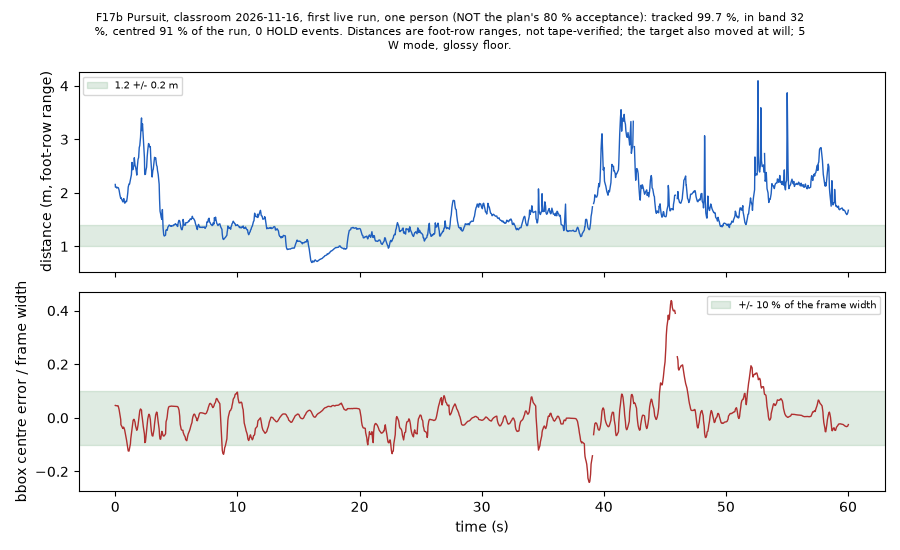
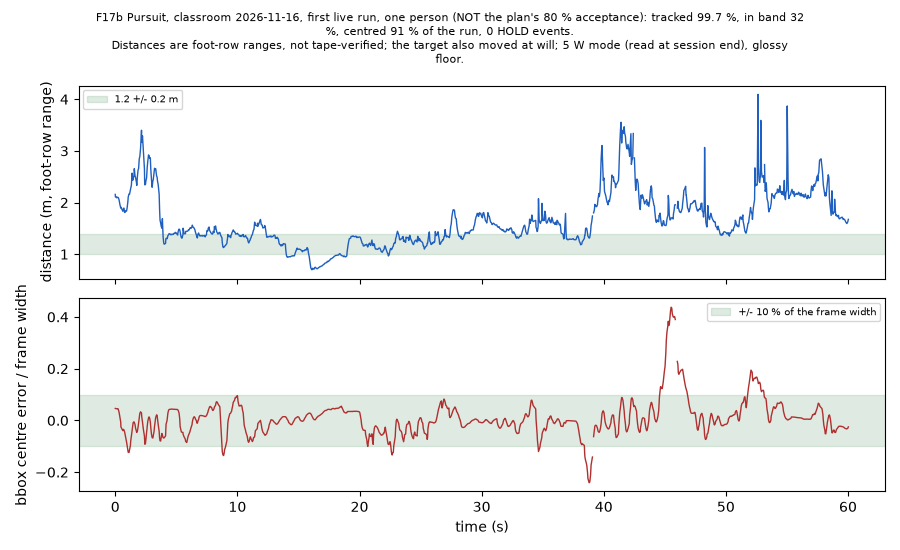
Week 7: audit fixes (power-mode wording, D2 caveat, packet count, title wrap, video-cut dates)

diff --git a/tools/plot_dqk_report_figures.py b/tools/plot_dqk_report_figures.py
@@ -427,7 +427,8 @@ def f17_1116():
     ax[1].set_ylabel("bbox centre error / frame width")
     ax[1].set_xlabel("time (s)")
     ax[1].legend(fontsize=7)
-    fig.suptitle(textwrap.fill("F17b Pursuit, classroom 2026-11-16, first live run, one person (NOT the plan's 80 %% acceptance): tracked %.1f %%, in band %.0f %%, centred %.0f %% of the run, %d HOLD events.\nDistances are foot-row ranges, not tape-verified; the target also moved at will; 5 W mode, glossy floor." % (100 * sm["coverage_tracked_fraction"], 100 * sm["time_fraction_distance_in_band_of_run"], 100 * sm["time_fraction_centred_of_run"], len(sm["hold_events"])), 125), fontsize=8)
+    title = ("F17b Pursuit, classroom 2026-11-16, first live run, one person (NOT the plan's 80 %% acceptance): tracked %.1f %%, in band %.0f %%, centred %.0f %% of the run, %d HOLD events.\nDistances are foot-row ranges, not tape-verified; the target also moved at will; 5 W mode (read at session end), glossy floor." % (100 * sm["coverage_tracked_fraction"], 100 * sm["time_fraction_distance_in_band_of_run"], 100 * sm["time_fraction_centred_of_run"], len(sm["hold_events"])))
+    fig.suptitle("\n".join(textwrap.fill(p, 125) for p in title.splitlines()), fontsize=8)
     fig.tight_layout()
     OUT7.mkdir(parents=True, exist_ok=True)
     fig.savefig(OUT7 / "F17b_pursuit_1116.png")

diff --git a/reports/DoanQuocKien/midterm-chapter-08.md b/reports/DoanQuocKien/midterm-chapter-08.md
@@ -9,10 +9,10 @@
 | Hạng mục | Ngưỡng (mục 4.3) | Hiện có | Kết luận |
 | :-- | :-- | :-- | :-- |
 | Xác minh khuôn mặt (D2) | TAR ≥ 95 % tại FAR ≤ 1 % | clip D2 cũ (khuôn mặt 22–53 px): TAR 0,40 tại FAR 0,066 (buffalo_s, ngưỡng 0,45). Ngày 14/11 tại cửa, camera ESP32 (bản opt4), ba người (DQK, HNHL, KR) đăng ký có hướng dẫn, đứng ở 1,8 / 2,4 / 3,0 m, nhìn thẳng và quay đi sang hai bên: **TAR gộp 0,937** (822/877 khung hình nhìn thẳng; DQK 0,930, HNHL 0,983, KR 0,896), **FAR 0 trên 1754 điểm** của người lạ (0 trên 5254 khi tính cả khung hình quay đi), điểm người lạ cao nhất 0,336, ngưỡng 0,45 | **một phần**: FAR đạt, TAR 93,7 % thấp hơn ngưỡng 95 %. Điểm của người đúng và của người lạ tách nhau: ngưỡng 0,40 cho TAR 0,990 tại FAR 0/5254 (0,35: 0,998; 0,30: 1,000 tại FAR 0,27 %). Chỉ ba người, một buổi, một camera, nên đây là ứng viên chứ chưa phải kiểm chứng; ngưỡng trong mã giữ 0,45 và quyết định thuộc về HNHL. Lỗi không do kích thước mặt, góc quay đầu, khoảng cách hay phần đầu clip (chưa rõ nguyên nhân; nghi ngờ ảnh đăng ký từ webcam, chưa kiểm tra) |
-| Triển khai camera cửa (T2) | tới vị trí đỗ trước cửa (1,5–3,0 m), bắt tay xác minh, lùi về STANDBY, không va chạm; 5 lần tính điểm | 7 lần tính điểm (4 lần ngày 30/10, 2 lần ngày 14/11, 1 lần ngày 16/11). Ngày 14/11 cả hai lần đạt mọi tiêu chí: bắt tay 109/109 và 163/163 khung hình trong tầm nhìn, STANDBY sau 18 s và 26,6 s, khoảng cách tới cửa 2,94 m (thước), tầm nhìn thông, tường cách 0,30 và 0,45 m, 0 va chạm. Hai lần dừng cách bảng 1,55 và 1,61 m (đích 1,33 m), lệch nhau khoảng 6 cm. Ngày 16/11 (một mình DQK, pin 11,9 V, chế độ 5 W, sàn gạch bóng): bắt tay 110/110 khung hình, STANDBY sau 30,7 s, cửa cách 2,93 m (thước), nội thất cách 0,35 m, 0 va chạm; tháp đặt sau khi robot dừng, đúng quy trình; chưa thử dừng khi gặp vật cản và né tháp | **đạt** (một cửa, một phòng; khoảng cách tới cửa 2,94 m gần mép trên của dải; điểm xuất phát phải cách bảng không quá khoảng 3,35 m) |
+| Triển khai camera cửa (T2) | tới vị trí đỗ trước cửa (1,5–3,0 m), bắt tay xác minh, lùi về STANDBY, không va chạm; 5 lần tính điểm | 7 lần tính điểm (4 lần ngày 30/10, 2 lần ngày 14/11, 1 lần ngày 16/11). Ngày 14/11 cả hai lần đạt mọi tiêu chí: bắt tay 109/109 và 163/163 khung hình trong tầm nhìn, STANDBY sau 18 s và 26,6 s, khoảng cách tới cửa 2,94 m (thước), tầm nhìn thông, tường cách 0,30 và 0,45 m, 0 va chạm. Hai lần dừng cách bảng 1,55 và 1,61 m (đích 1,33 m), lệch nhau khoảng 6 cm. Ngày 16/11 (một mình DQK, pin 11,9 V, chế độ 5 W đọc cuối buổi, sàn gạch bóng): bắt tay 110/110 khung hình, STANDBY sau 30,7 s, cửa cách 2,93 m (thước), nội thất cách 0,35 m, 0 va chạm; tháp đặt sau khi robot dừng, đúng quy trình; chưa thử dừng khi gặp vật cản và né tháp | **đạt** (một cửa, một phòng; khoảng cách tới cửa 2,94 m gần mép trên của dải; điểm xuất phát phải cách bảng không quá khoảng 3,35 m) |
 | Né vật cản trên sàn bóng | khoảng cách tới vật cản có giá trị | ghế bị phát hiện (độ tin cậy 0,95) nhưng **không có khoảng cách** (`reflection_unresolved`) trên gạch bóng, như đo 15/10 và 9/11; công cụ `explore_live` từ chối xuất phát; chưa có lần chạy né vật cản trên robot | **chưa đạt**; thử bù bằng chiều rộng hộp: một ghế, sai tối đa 0,05 m (bỏ một), 7 trên 9 ghế khác trong ±0,16 m |
 | Bắt tay ESP32 | 10/10 chấp nhận, 10/10 từ chối | hai lần đạt 10/10 và 10/10, nhưng lần gần nhất chưa có biến thiên khi đặt lại camera | một phần |
-| Truy bám PD | 1,2 ± 0,2 m, căn tâm ± 10 % trong 80 % thời gian | các lần chạy có giám sát đầu tiên (9/11), 43–54 % thời gian trong dải, không tính nghiệm thu. Ngày 16/11, một lần chạy thật 60 s với một người (chế độ 5 W, sàn bóng, cự ly hàng chân chưa kiểm bằng thước, mục tiêu tự di chuyển): theo dấu 99,7 % thời gian, **trong dải 32 %**, căn tâm 91 %, không có sự kiện HOLD (không thử đứng yên) (Hình F17b) | **chưa đạt** ngưỡng 80 % về khoảng cách; căn tâm 91 % cao hơn ngưỡng nhưng chỉ là một lần chạy |
+| Truy bám PD | 1,2 ± 0,2 m, căn tâm ± 10 % trong 80 % thời gian | các lần chạy có giám sát đầu tiên (9/11), 43–54 % thời gian trong dải, không tính nghiệm thu. Ngày 16/11, một lần chạy thật 60 s với một người (chế độ 5 W đọc cuối buổi, sàn bóng, cự ly hàng chân chưa kiểm bằng thước, mục tiêu tự di chuyển): theo dấu 99,7 % thời gian, **trong dải 32 %**, căn tâm 91 %, không có sự kiện HOLD (không thử đứng yên) (Hình F17b) | **chưa đạt** ngưỡng 80 % về khoảng cách; căn tâm 91 % cao hơn ngưỡng nhưng chỉ là một lần chạy |
 | Tiếp cận cửa tự động | tới vị trí đỗ 1,5–3,0 m trước cửa | 4 lần chạy tới 1,6–1,9 m (thước), 51 / 15 / 6 / 5 bước (sau khi sửa cửa sổ căn tâm), sai khoảng cách ≤ 0,05 m với số mũ 1,6 | một cửa, một ngày |
 | Ước lượng vị trí cửa tự động | — | sai +11 % và +15 % (hình học yếu) | chưa có lần chạy hình học tốt |
 | Cắt động cơ khi thả R1 / nút khác | dừng ngay | trung vị 7 ms (cắt), robot từ chối lệnh sau đó | chưa đo cơ học |
@@ -27,7 +27,7 @@
 
 ## 8.3 Rủi ro chính đã đo và cách giảm thiểu
 
-1. **Khuôn mặt tại vị trí ESP32** (rủi ro 32): đo tại cửa ngày 14/11 với ba người: khuôn mặt của DQK 59–97 px ở 3,0–1,8 m (cũ 22–53 px), nên số điểm ảnh không còn là nguyên nhân. FAR bằng 0 trên 1754 điểm của người lạ, nhưng TAR gộp 0,937 ở ngưỡng 0,45 chưa tới 95 %; ngưỡng thấp hơn (0,40) cho TAR 0,990 mà FAR vẫn 0 trên số liệu này, song chỉ có ba người trong một buổi nên chưa kết luận. Ngày 16/11 DQK đăng ký lại 5 tư thế đa dạng và chấm lại cùng các clip: TAR của DQK vẫn 0,930 (cùng 21 khung hình dưới 0,45), FAR vẫn 0, nên tư thế đăng ký không phải nguyên nhân. Còn thiếu: người lạ ngoài nhóm và đăng ký lại cho KR; quyết định mô hình và ngưỡng thuộc về HNHL.
+1. **Khuôn mặt tại vị trí ESP32** (rủi ro 32): đo tại cửa ngày 14/11 với ba người: khuôn mặt của DQK 59–97 px ở 3,0–1,8 m (cũ 22–53 px), nên số điểm ảnh không còn là nguyên nhân. FAR bằng 0 trên 1754 điểm của người lạ, nhưng TAR gộp 0,937 ở ngưỡng 0,45 chưa tới 95 %; ngưỡng thấp hơn (0,40) cho TAR 0,990 mà FAR vẫn 0 trên số liệu này, song chỉ có ba người trong một buổi nên chưa kết luận. Ngày 16/11 DQK đăng ký lại 5 tư thế đa dạng và chấm lại trên cùng các clip: TAR của DQK vẫn 0,930 (cùng 21 khung hình dưới 0,45), FAR vẫn 0, nên tư thế đăng ký không giải thích được các khung hình trượt (một lần đăng ký lại, một buổi). Còn thiếu: người lạ ngoài nhóm và đăng ký lại cho KR; quyết định mô hình và ngưỡng thuộc về HNHL.
 2. **Khoảng cách cửa chưa tự đo được** (rủi ro 33): bộ ước lượng khép vòng đã nhập nhưng chưa kiểm chứng với hình học tốt; cần phòng có ≥ 2,5 m sàn trống vuông góc với tia nhìn tới cửa và ≥ 3 marker; báo cáo nêu rõ sự phụ thuộc vào một giá trị thước.
 3. **Chuyển động vòng hở không dự đoán được** (rủi ro 34): luôn đo lại sau mỗi bước, hiệu chỉnh lại trên sàn lớp, giữ quy tắc chỗ trống đã đo. Lần đo chuyển động ngày 16/11 (hai bảng cách robot 2,1–2,54 m) chỉ có 2 trong 6 đoạn có marker ở cả hai lần dừng nên không khớp được hệ số; hoãn sang ký túc xá, hệ số tuần 2 vẫn dùng, ghi là giới hạn.
 4. **Lần chạy T2 tính điểm:** đã có ngày 14/11 (hai lần đạt, xem 8.1) và thêm một lần ngày 16/11 (đạt). Ba lần thử đầu ngày không tính: hai lần dừng vì thả R1 sau khi robot dừng 4–5 s, một lần xuất phát cách bảng 3,54 m nên marker mất khi robot di chuyển (tìm thấy 1 trong 43 khung hình đầu) và vượt thời gian tiếp cận. Hai bài học: giữ R1 tới hai tiếng bíp (ít nhất 10 s sau lời nhắc) và xuất phát cách bảng không quá khoảng 3,35 m; kiểm tra khung hình ESP32 (tháp hướng đúng cửa) trước mỗi lần chạy.

diff --git a/docs/Mid-Term Report Plan.md b/docs/Mid-Term Report Plan.md
@@ -123,7 +123,7 @@ Each figure is saved as PNG next to its evidence in `reports/<handle>/week-NN/`,
 
 The video is optional: if pursuit slips, cut the W6 robot shots and keep the Phase 1 and calibration shots (or use the replay/`sim_robot` fallback, captioned as such).
 
-Who: DQK films the robot (phone on a tripod) and edits; HNHL screen-records the laptop overlays (OBS); KR films the door and the ESP32 view. When: each shot as soon as its feature works (W5-W6 sessions); pick-up session Mon Nov 16; cut by Wed Nov 18; spare re-shoot Sat Nov 21. **Changed 2026-11-16 (DQK, team leader):** the Monday pick-up covered the entrance found, the sweet spot and pursuit only; the remaining shots (prompt, camera placed, handshake verified, reverse to STANDBY, Phase 2, the intruder, the full loop) are recorded Thu Nov 19 in the classroom with all three members (the only day all three are free). The video cut moves to Fri Nov 20-Sat Nov 21 (the Wed draft carries the shots that exist, with the replay/`sim_robot` fallback captioned as such); the video is final Sun Nov 22. Anything that does not work on Thursday is cut or captioned, not rushed. Upload to the team Drive; the link goes in the report and appendix, never in git.
+Who: DQK films the robot (phone on a tripod) and edits; HNHL screen-records the laptop overlays (OBS); KR films the door and the ESP32 view. When: each shot as soon as its feature works (W5-W6 sessions); pick-up session Mon Nov 16; cut by Wed Nov 18; spare re-shoot Sat Nov 21. **Changed 2026-11-16 (DQK, team leader):** the Monday pick-up (as reported by DQK) covered the entrance found, the sweet spot and pursuit only; the remaining shots (prompt, camera placed, handshake verified, reverse to STANDBY, Phase 2, the intruder, the full loop) are recorded Thu Nov 19 in the classroom with all three members (the only day all three are free). The video cut moves to Fri Nov 20-Sat Nov 21 (the Wed draft carries the shots that exist, with the replay/`sim_robot` fallback captioned as such); the video is final Sun Nov 22. Anything that does not work on Thursday is cut or captioned, not rushed. Upload to the team Drive; the link goes in the report and appendix, never in git.
 
 | # | Shot | s | Proves |
 | :-- | :-- | :-: | :-- |
@@ -154,7 +154,7 @@ Rules: check the battery before every take (>= 11.1 V; stop below 10.5 V); the o
 | T-3 w, Mon Nov 2 | Outline, page budget and owners agreed (this file); 3+ papers per member; figures assigned; shared document created. **Outline, page budget and chapter owners agreed by all three at the 2026-10-28 session (reported by DQK; no change to this file).** Still open from this row: figures assigned and the shared document created |
 | T-2 w, Mon Nov 9 | Chapters 1-4 drafted from Week 1-4 evidence; F1-F15 and F20-F21 made; Phase 1 and Phase 2 video shots recorded |
 | T-7 d, Mon Nov 16 | Experiments closed, **figures frozen** (video shots: partly recorded; the rest moved to Thu Nov 19, see section 5) |
-| T-5 d, Wed Nov 18 | **Internal draft:** full merged report (10-15 pages) and video cut |
+| T-5 d, Wed Nov 18 | **Internal draft:** full merged report (10-15 pages); the video cut moved to Fri-Sat Nov 20-21 (section 5) |
 | T-4..3 d, Thu-Fri Nov 19-20 | Internal review: each member reads the whole report and checks every number against its file; PR freeze Fri |
 | T-2 d, Sat Nov 21 | Clean checkout test, tag `midterm`, spare re-shoot slot |
 | T-1 d, Sun Nov 22 | PDF final, video uploaded, links checked |

diff --git a/reports/DoanQuocKien/midterm-chapter-03.md b/reports/DoanQuocKien/midterm-chapter-03.md
@@ -34,7 +34,7 @@ Robot là tài sản của trường nên an toàn được thiết kế nhiều
 - **Giới hạn lệnh:** tốc độ tối đa 0,3 (cấu hình trên robot); lệnh phải hợp lệ so với vùng chết động cơ (`min_pwm` 0,12); pin tối thiểu 11,4 V để bắt đầu chạy, dưới 10,5 V phải sạc.
 - **Watchdog 300 ms:** nếu luồng lệnh ngừng, động cơ dừng.
 
-**Thời gian dừng đo ngày 12/11 (bánh xe nhấc khỏi sàn, nhật ký của chính Jetson):** 16 lần thả R1: e-stop **cắt động cơ trung vị 7 ms (5–11 ms)**; bộ điều khiển `robot_udp` thấy chốt khóa trung vị 6–7 ms sau đó và từ chối các lệnh còn gửi tới; 5 lần nhấn nút khác: cắt **7–8 ms**. Watchdog được quan sát tình cờ: động cơ dừng khoảng 0,28–0,30 s sau lệnh cuối. Ngày 14/11 (PR #119): rút đầu thu tay cầm khi giữ R1 thì `estop.py` dừng 48 ms sau khi phát hiện (tự cắt động cơ 6 ms) và `robot_udp` đưa động cơ về 0 ở 97 ms. Ngày 16/11, sau khi triển khai lại mã sửa kiểm toán (bánh xe nhấc khỏi sàn, gói lệnh chưa ký): thả R1 cắt 10 ms, động cơ về 0 sau 78 ms; nút khác cắt 6 ms, động cơ về 0 sau 38 ms; 1040 gói hợp lệ, 0 lỗi. Mỗi trường hợp một lần đo. **Chưa đo:** độ trễ không dây của tay cầm và thời gian dừng cơ học của bánh xe (không có bộ mã hóa).
+**Thời gian dừng đo ngày 12/11 (bánh xe nhấc khỏi sàn, nhật ký của chính Jetson):** 16 lần thả R1: e-stop **cắt động cơ trung vị 7 ms (5–11 ms)**; bộ điều khiển `robot_udp` thấy chốt khóa trung vị 6–7 ms sau đó và từ chối các lệnh còn gửi tới; 5 lần nhấn nút khác: cắt **7–8 ms**. Watchdog được quan sát tình cờ: động cơ dừng khoảng 0,28–0,30 s sau lệnh cuối. Ngày 14/11 (PR #119): rút đầu thu tay cầm khi giữ R1 thì `estop.py` dừng 48 ms sau khi phát hiện (tự cắt động cơ 6 ms) và `robot_udp` đưa động cơ về 0 ở 97 ms. Ngày 16/11, sau khi triển khai lại mã sửa kiểm toán (bánh xe nhấc khỏi sàn, gói lệnh chưa ký): thả R1 cắt 10 ms, động cơ về 0 sau 78 ms; nút khác cắt 6 ms, động cơ về 0 sau 38 ms; 1040 gói được nhận tại lần ghi định kỳ khi bên gửi còn chạy, 0 gói lỗi, ngoài danh sách hay quá hạn; nhật ký thô nằm trên robot, chưa lưu vào kho. Mỗi trường hợp một lần đo. **Chưa đo:** độ trễ không dây của tay cầm và thời gian dừng cơ học của bánh xe (không có bộ mã hóa).
 
 Các công cụ chạy có chuyển động (`find_door`, `approach_door`) còn có quy tắc của người vận hành: phải nhập **khoảng trống sàn đã đo**, công cụ tính quãng đường tối đa theo mô hình tốc độ thận trọng (0,35 m/s ở v = 0,85) và từ chối nếu không đủ chỗ; kiểm tra video còn mới trước mỗi lần di chuyển; đọc to kế hoạch và dừng 4 s để người vận hành hủy. Hai lần robot chạm ghế ngày 12/11 (không hư hại) là lý do của các quy tắc này.
 

diff --git a/docs/Classroom Session 2026-11-19.md b/docs/Classroom Session 2026-11-19.md
@@ -1,6 +1,6 @@
 # Classroom session Thu 2026-11-19 (all three members): what only the classroom can do
 
-Decision 2026-11-16 (DQK, team leader): the remaining video shots are recorded here, in the classroom, with all three members (the only day all three are free); the video cut moves to Fri 11-20 - Sat 11-21, final Sun 11-22. The report's numbers and figures stay frozen on 11-16: anything measured on 11-19 is added only if marked "added after the freeze", otherwise the item is reported as in progress. This file lists everything left that cannot be done off-session. Everything that could be done on 11-16 evening is done (see `reports/DoanQuocKien/week-07/classroom_1116/README.md`, PR #125, plan entry PR #126).
+Decision 2026-11-16 (DQK, team leader): the remaining video shots are recorded here, in the classroom, with all three members (the only day all three are free); the video cut moves to Fri 11-20 - Sat 11-21, final Sun 11-22. The report's numbers and figures stay frozen on 11-16: anything measured on 11-19 is added only if marked "added after the freeze", otherwise the item is reported as in progress. This file lists everything left that cannot be done off-session. Everything planned for the 11-16 evening is done (see `reports/DoanQuocKien/week-07/classroom_1116/README.md`, PR #125, plan entry PR #126).
 
 ## Before anyone films (DQK, 15 min)
 1. `python -m tools.jetbot_status auto`: battery >= 11.1 V (stop < 10.5 V). Decide the power mode and write it on the shot list: the 11-16 runs were in 5 W mode; `sudo nvpmodel -m 0` (MAXN) is what the benchmarks used.
